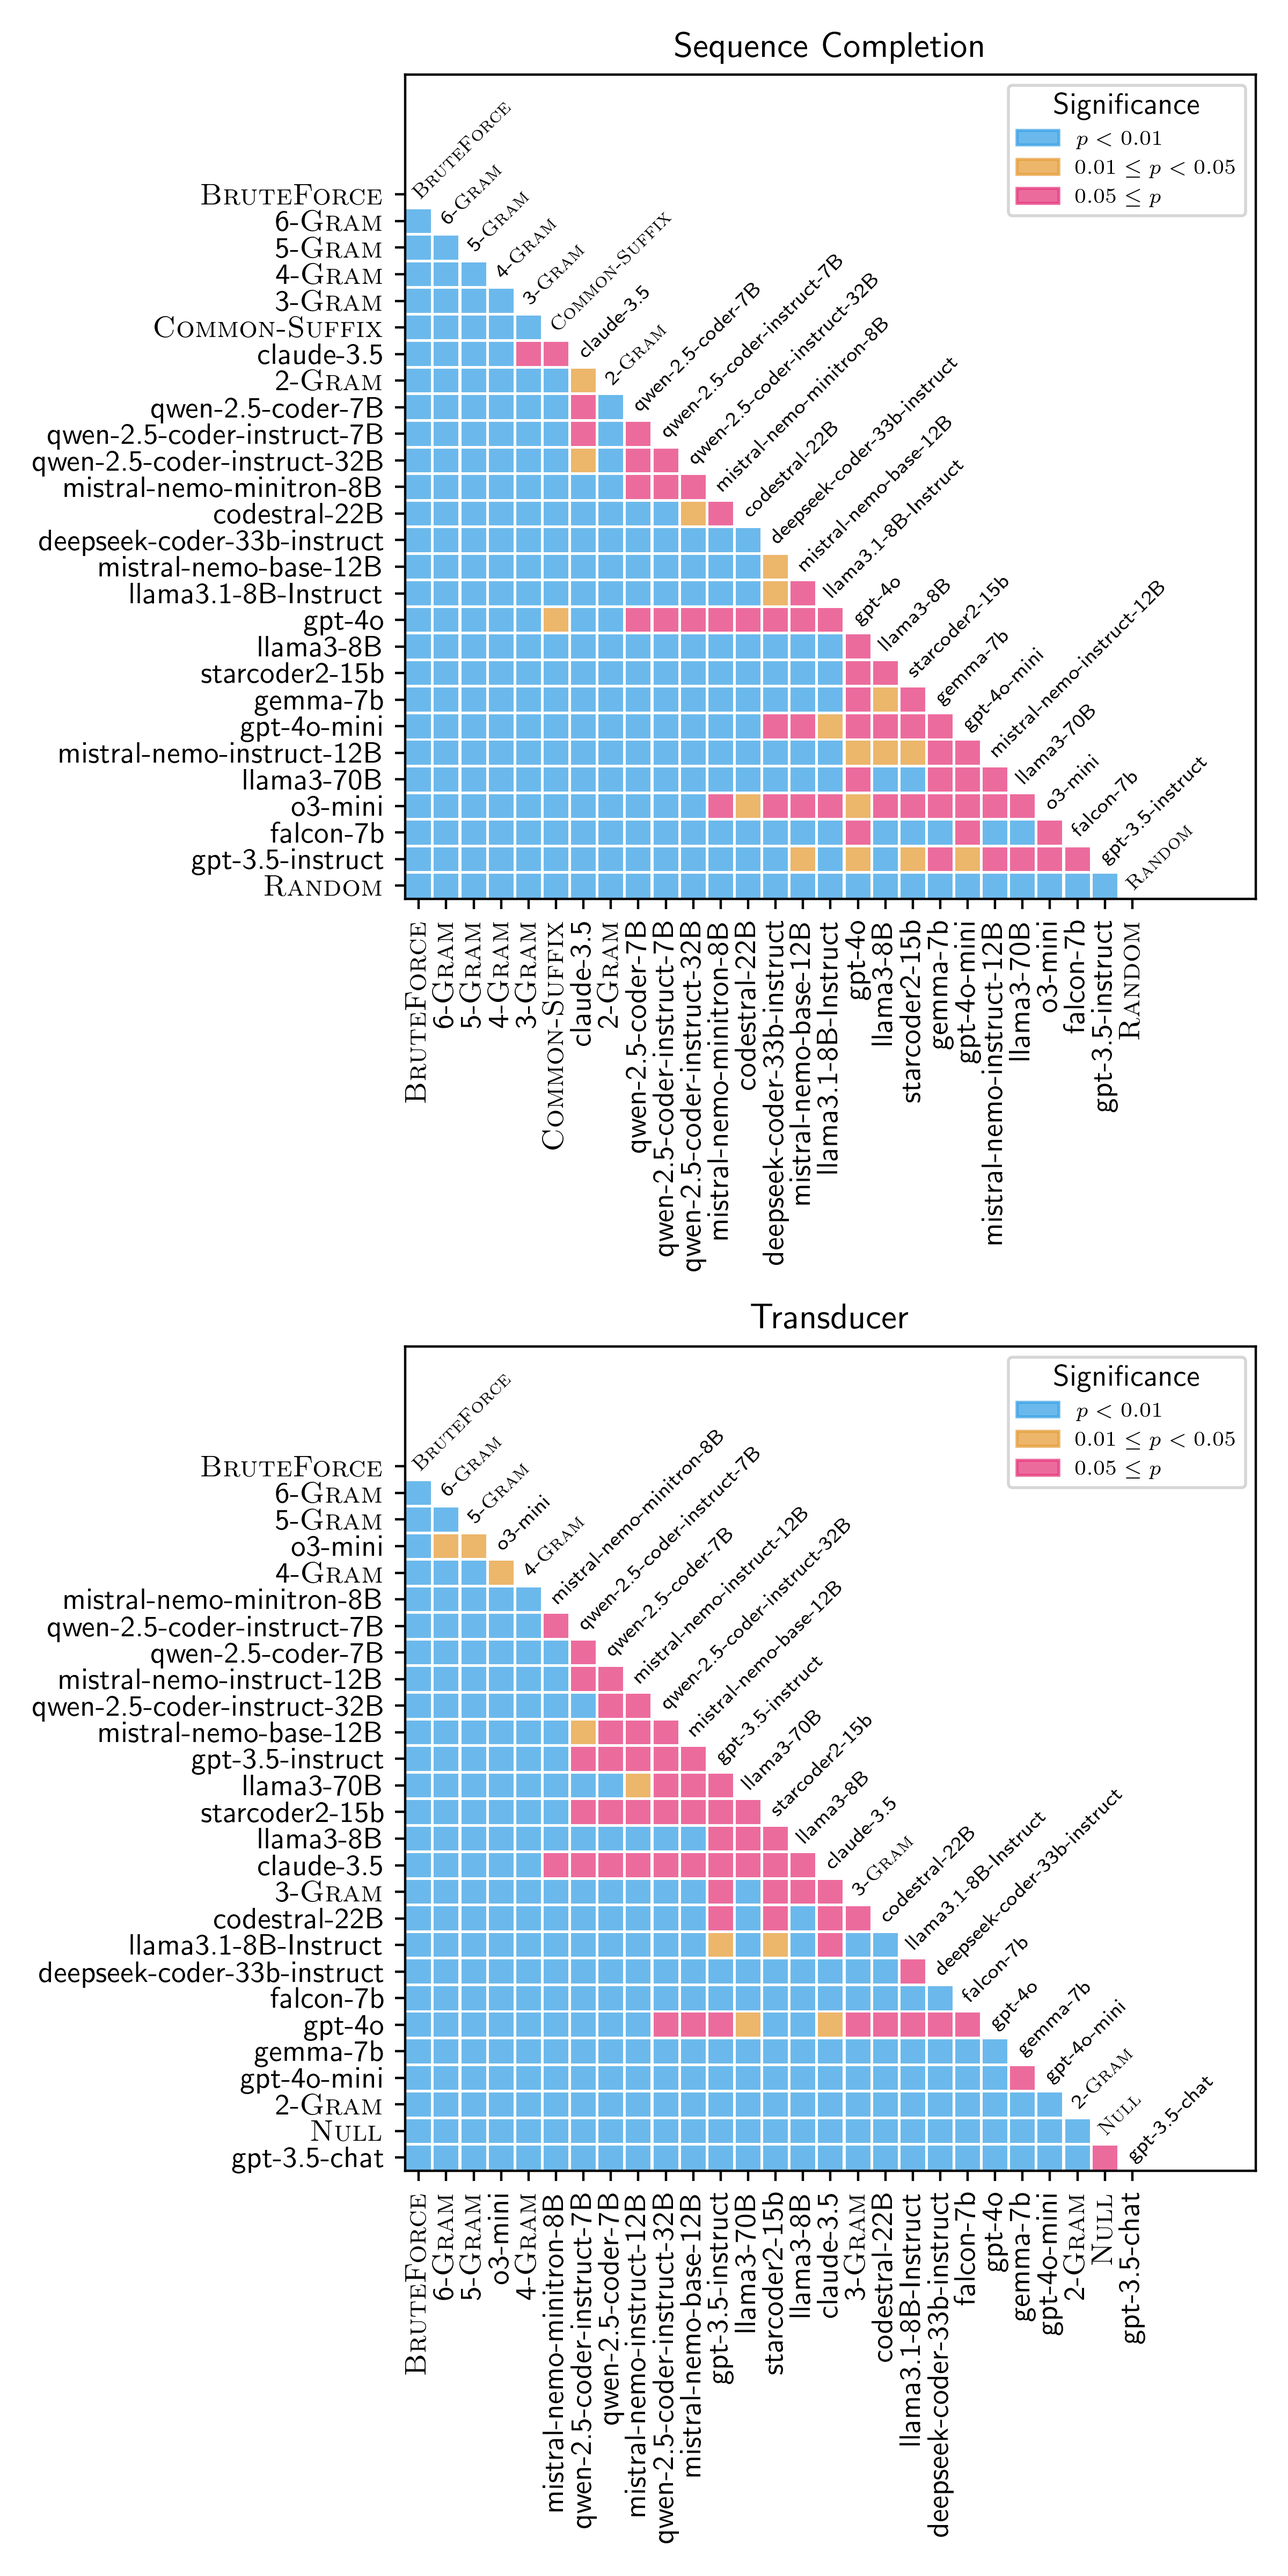
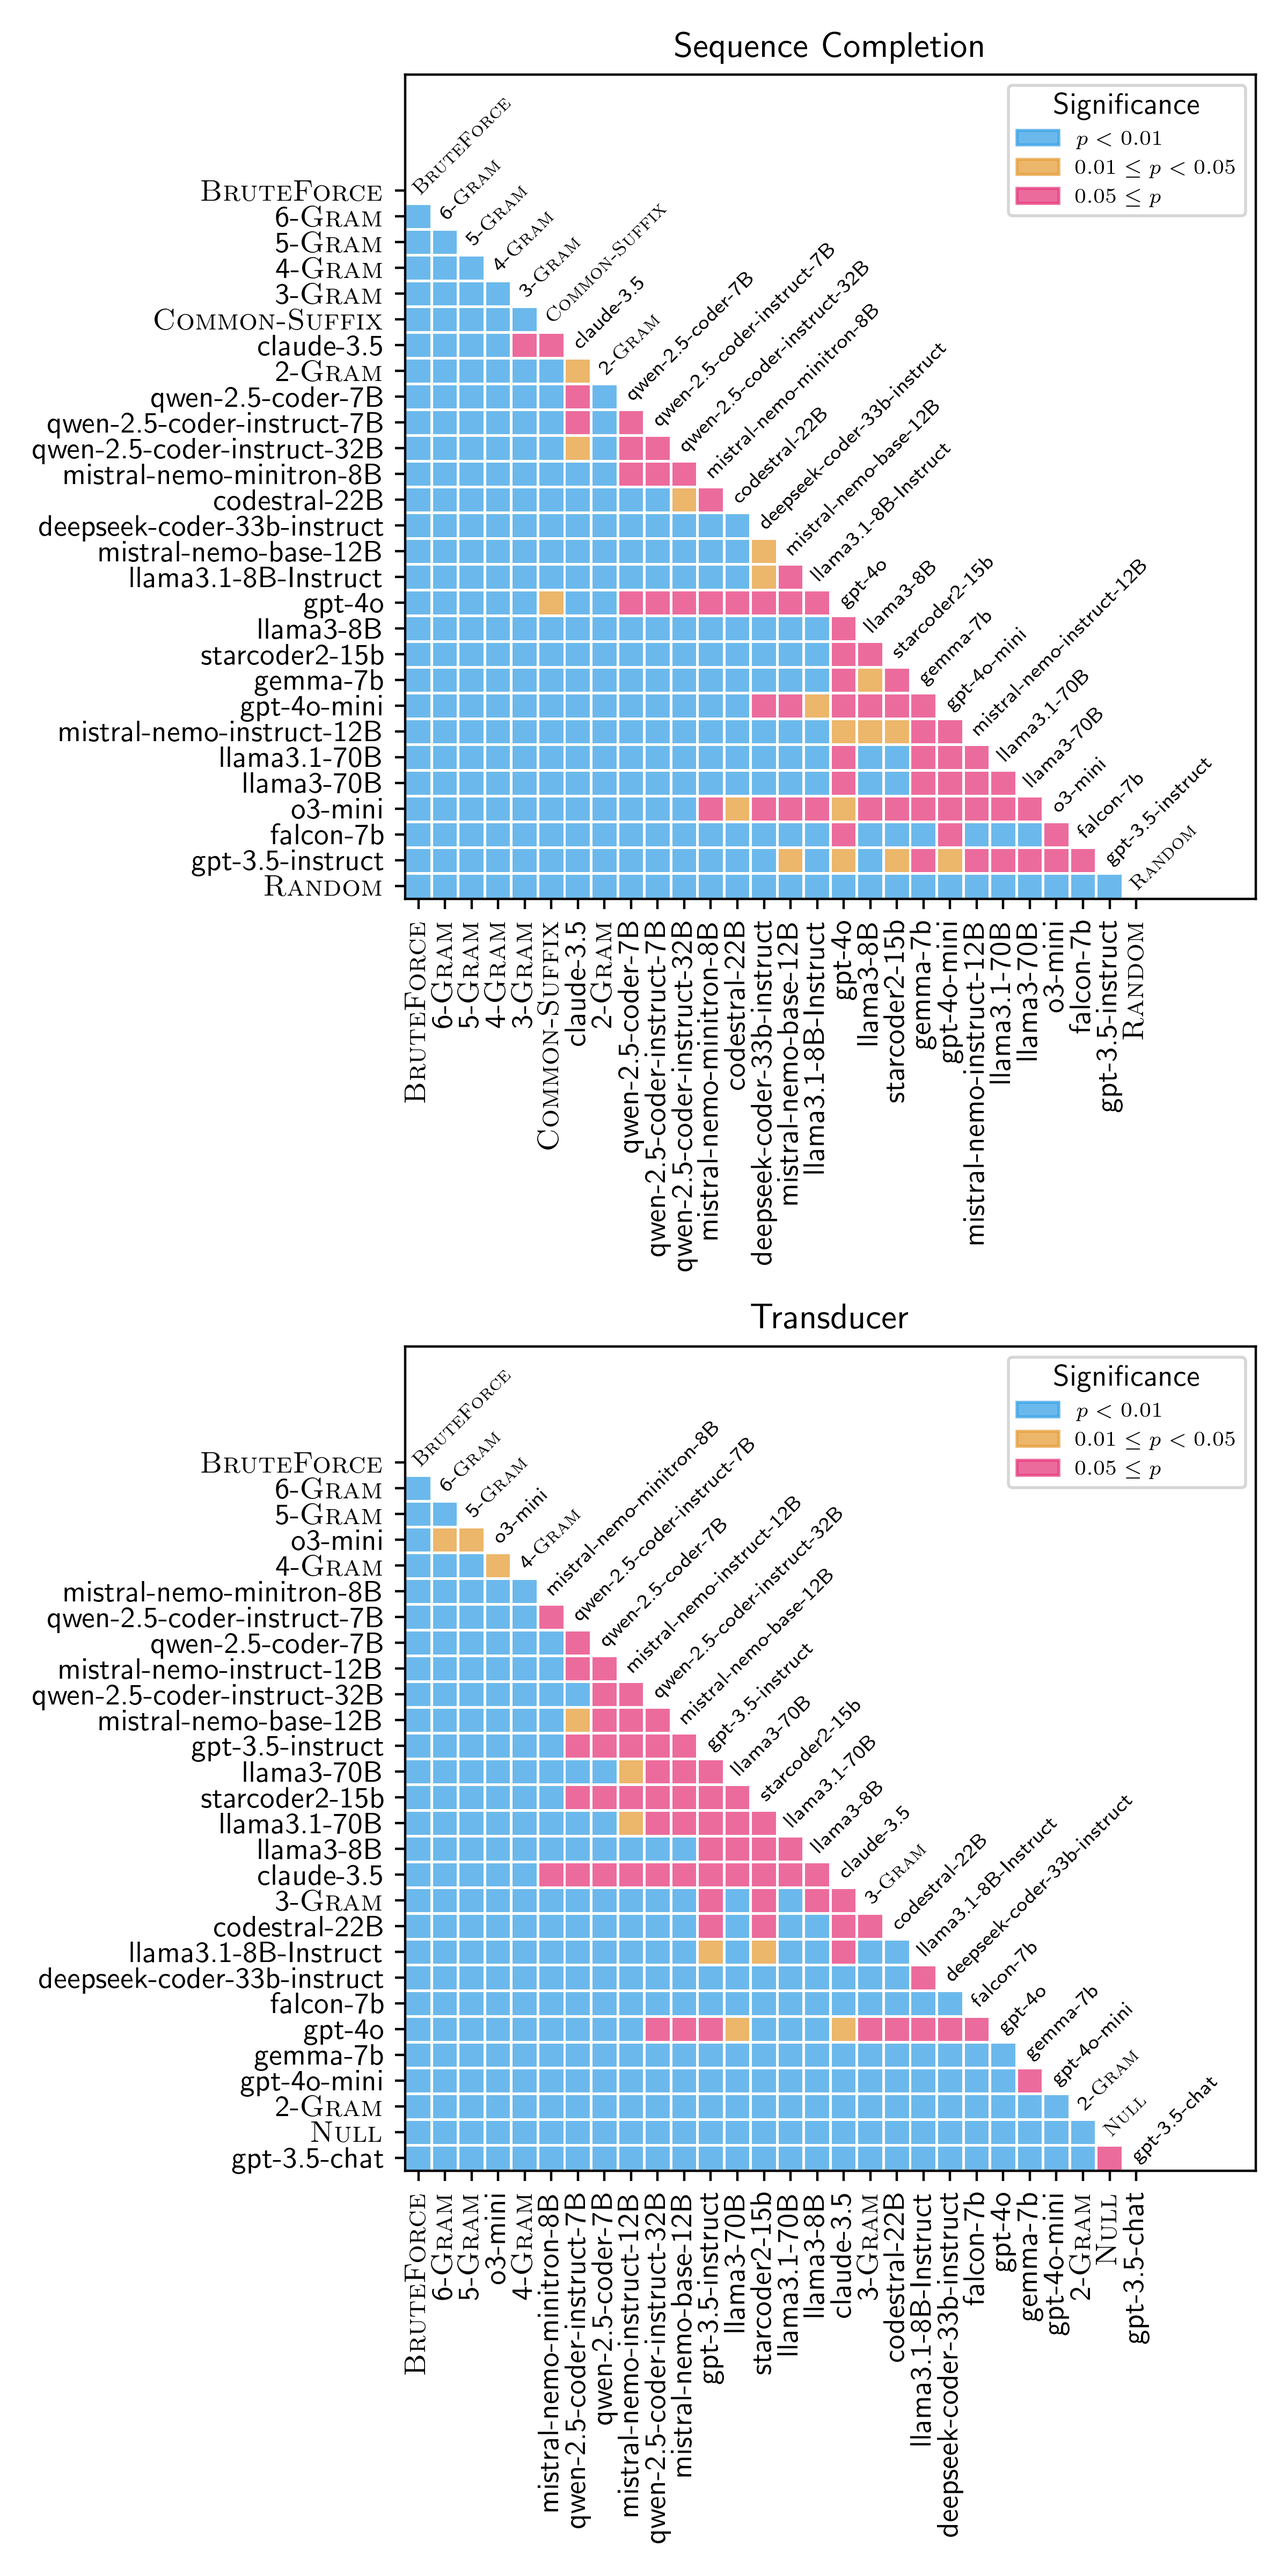
fixes

diff --git a/evallm/llm/llm.py b/evallm/llm/llm.py
@@ -61,7 +61,7 @@ model_specs = {
     "meta-llama/Meta-Llama-3-8B": ModelSpec(client=local_client, is_chat=False),
     "meta-llama/Meta-Llama-3-70B": ModelSpec(client=local_client, is_chat=False),
     "meta-llama/Llama-3.1-8B-Instruct": ModelSpec(client=local_client, is_chat=False),
-    "meta-llama/Llama-3.1-70B": ModelSpec(client=local_client, is_chat=False),
+    "meta-llama/Meta-Llama-3.1-70B": ModelSpec(client=local_client, is_chat=False),
     "nvidia/Mistral-NeMo-Minitron-8B-Base": ModelSpec(
         client=local_client, is_chat=False
     ),

diff --git a/evallm/experiments/models_display.py b/evallm/experiments/models_display.py
@@ -4,7 +4,7 @@ model_by_display_key = {
     "llama3-8B": "meta-llama/Meta-Llama-3-8B",
     "llama3-70B": "meta-llama/Meta-Llama-3-70B",
     "llama3.1-8B-Instruct": "meta-llama/Llama-3.1-8B-Instruct",
-    "llama3.1-70B": "meta-llama/Llama-3.1-70B",
+    "llama3.1-70B": "meta-llama/Meta-Llama-3.1-70B",
     "mistral-nemo-minitron-8B": "nvidia/Mistral-NeMo-Minitron-8B-Base",
     "mistral-nemo-base-12B": "mistral_models/Nemo-Base",
     "mistral-nemo-instruct-12B": "mistral_models/Nemo-Instruct",
